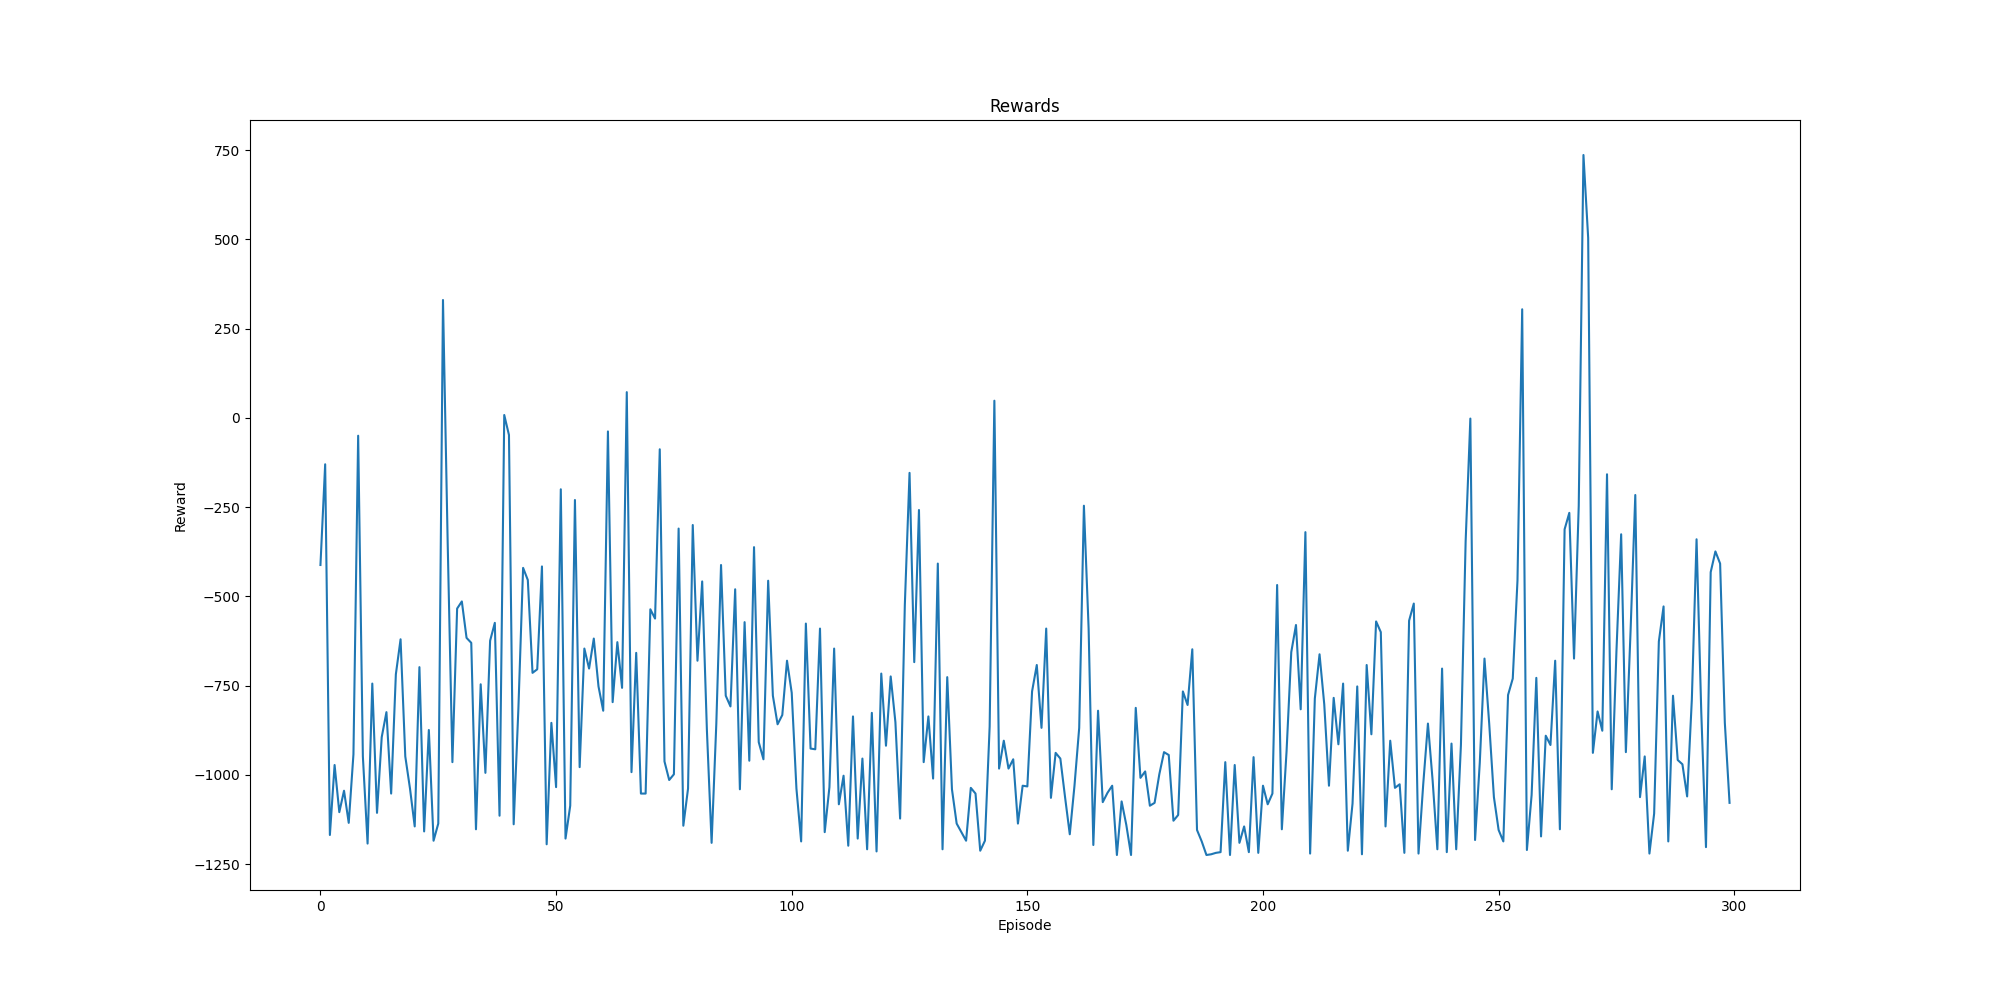
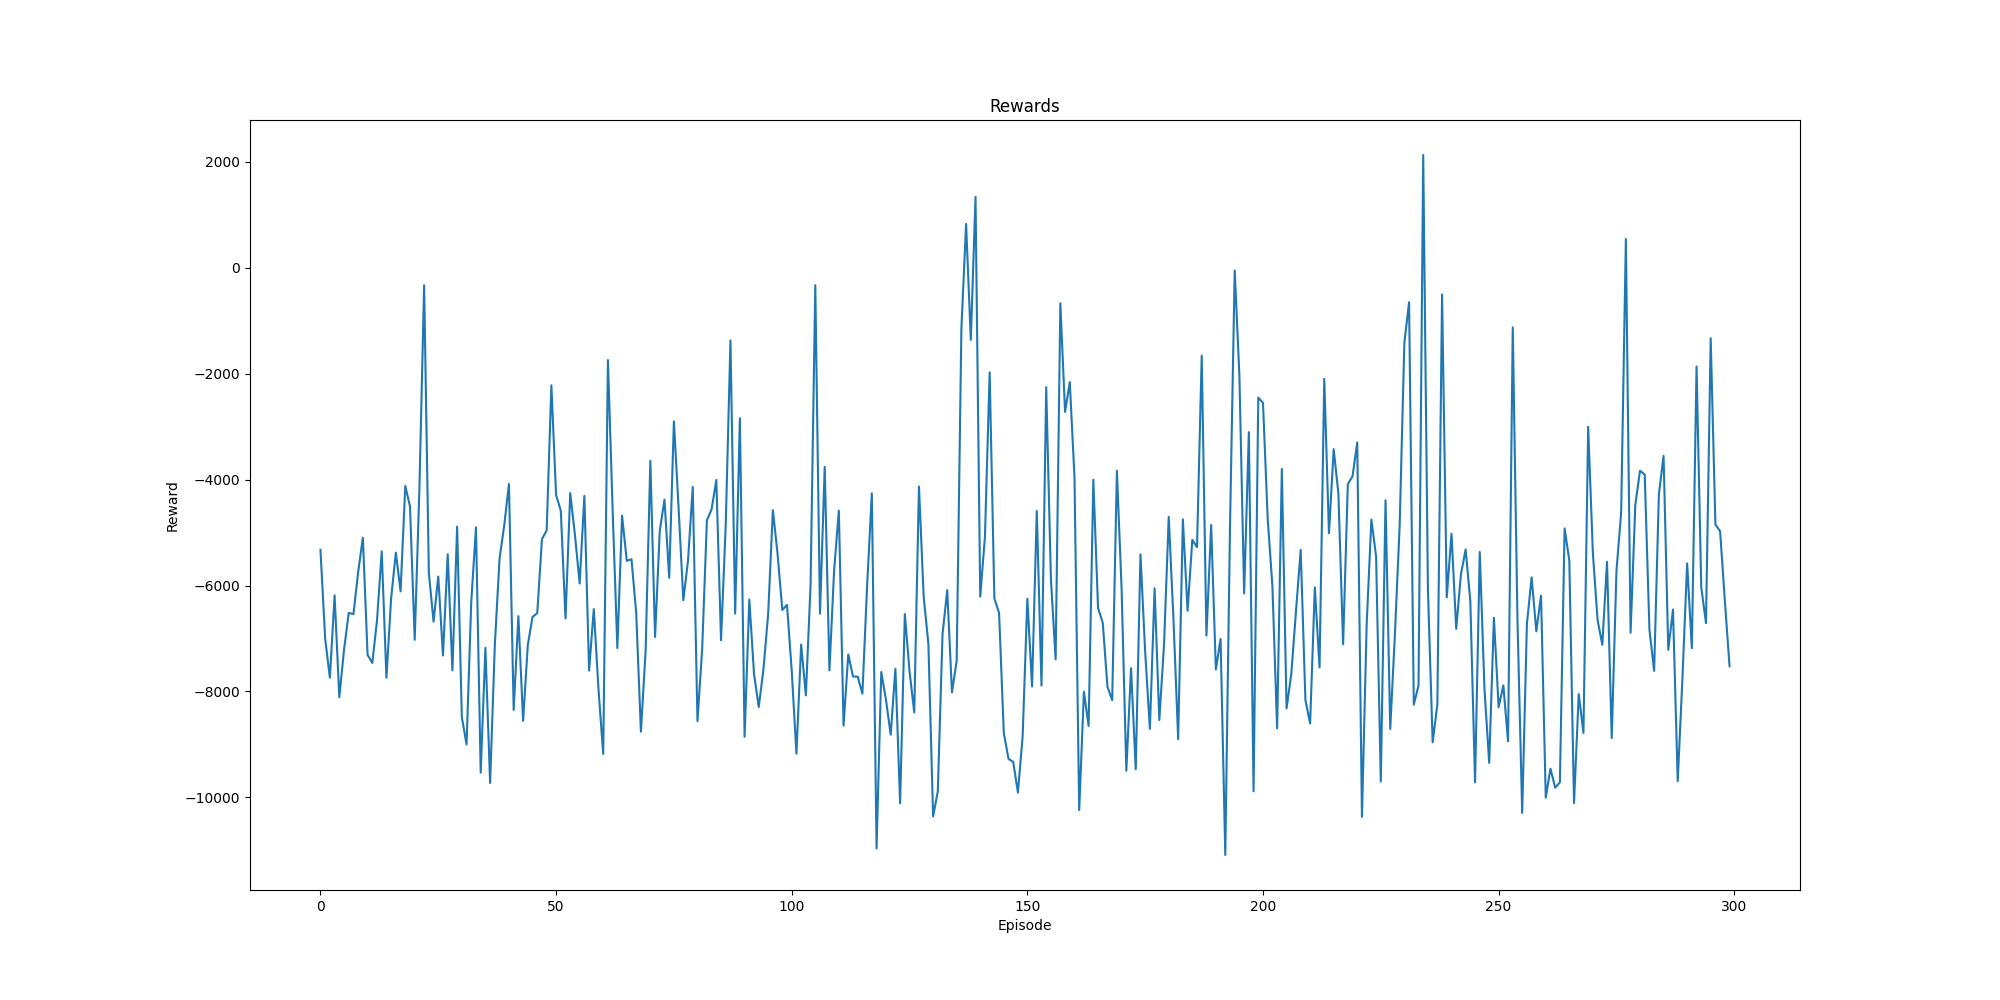
1. Fix random action selection in DQNAgent 2. Add option to disable target model update in replay 3. Update ContinuousCarRadarEnv class with new reward multiplier and circular path parameters

diff --git a/Term_Project/Part-2/DQN/model.py b/Term_Project/Part-2/DQN/model.py
@@ -89,7 +89,7 @@ class DQNAgent():
         
     def act(self, state):
         if np.random.rand() <= self.epsilon:
-            return np.random.choice(self.num_actions)
+            return np.random.randint(self.num_actions)
         else:
             with torch.no_grad():
                 state = torch.from_numpy(state).float()
@@ -99,7 +99,7 @@ class DQNAgent():
     def remember(self, state, action, reward, next_state, done):
         self.experience_replay.add(state, action, reward, next_state, done)
     
-    def replay(self):
+    def replay(self, should_update_target_model=True):
         if self.experience_replay.current_size < self.batch_size:
             return
         
@@ -107,31 +107,32 @@ class DQNAgent():
         
         states = torch.from_numpy(states).float()
         actions = torch.from_numpy(actions).long()
-        rewards = torch.from_numpy(rewards).float()
+        rewards = torch.from_numpy(rewards).int()
         next_states = torch.from_numpy(next_states).float()
-        dones = torch.from_numpy(dones).float()
+        dones = torch.from_numpy(dones).bool()
 
         q_values = self.model(states)
         next_q_values = self.target_model(next_states)
         q_values = q_values.gather(1, actions.unsqueeze(1)).squeeze(1)
         next_q_values = next_q_values.max(1)[0]
-        expected_q_values = rewards + (1 - dones) * self.gamma * next_q_values
+        expected_q_values = rewards + (~dones) * self.gamma * next_q_values
 
         loss = self.loss_fn(q_values, expected_q_values)
         self.optimizer.zero_grad()
         loss.backward()
         self.optimizer.step()
 
-        self.update_target_model()
+        if should_update_target_model:
+            self.update_target_model()
 
     def update_target_model(self):
-        # for target_param, param in zip(self.target_model.parameters(), self.model.parameters()):
-        #     target_param.data.copy_(self.tau * param.data + (1 - self.tau) * target_param.data)
-        self.target_model.load_state_dict(self.model.state_dict())
+        for target_param, param in zip(self.target_model.parameters(), self.model.parameters()):
+            target_param.data.copy_(self.tau * param.data + (1 - self.tau) * target_param.data)
+        # self.target_model.load_state_dict(self.model.state_dict())
 
     
 
-def train_dqn_agent(env: ContinuousCarRadarEnv, agent: DQNAgent, num_episodes=1000, max_steps=1000, start_learning = 200, learning_freq = 4, checkpoint_dir='checkpoints', checkpoint_name='checkpoint_'):
+def train_dqn_agent(env: ContinuousCarRadarEnv, agent: DQNAgent, num_episodes=1000, max_steps=1000, start_learning = 200, learning_freq = 4, updation_freq = 100, checkpoint_dir='checkpoints', checkpoint_name='checkpoint_'):
     start_time = time.time()
     rewards = []
     epsilons = []
@@ -150,7 +151,10 @@ def train_dqn_agent(env: ContinuousCarRadarEnv, agent: DQNAgent, num_episodes=10
             if done:
                 break
             if total_steps > start_learning and total_steps % learning_freq == 0:
-                agent.replay()
+                if total_steps % updation_freq == 0:
+                    agent.replay(True)
+                else:
+                    agent.replay(False)
         rewards.append(episode_reward)
         epsilons.append(agent.epsilon)
         if agent.epsilon > agent.epsilon_min:
@@ -163,51 +167,59 @@ def train_dqn_agent(env: ContinuousCarRadarEnv, agent: DQNAgent, num_episodes=10
     # agent.model.save(checkpoint_dir, checkpoint_name)
     return rewards, epsilons
 
-def run_model(env: ContinuousCarRadarEnv, agent: DQNAgent, checkpoint_dir='checkpoints', checkpoint_name='checkpoint.pth'):
+def run_model(env: ContinuousCarRadarEnv, agent: DQNAgent, max_steps, checkpoint_dir='checkpoints', checkpoint_name='checkpoint.pth'):
     agent.model.load(checkpoint_dir, checkpoint_name)
     state = env.reset()
     done = False
-    while not done:
+    steps = 0
+    while not done and steps < max_steps:
+        steps += 1
         env.render()
         action = agent.act(state)
         state, reward, done = env.step(action)
         # time.sleep(0.1)
+    if done:
+        print(f'Car reached destination in {steps} steps')
+    else:
+        print(f'Car could not reach destination')
     env.close()
 
 if __name__ == '__main__':
     # Set random seed
-    np.random.seed(7375)
+    np.random.seed(53467)
     # Initialize environment
-    env = ContinuousCarRadarEnv(reward_inside_path=1, reward_outside_path=-1, car_speed=1.5)
+    env = ContinuousCarRadarEnv(reward_inside_path=1, reward_outside_path=-3, car_speed=1.3, outer_ring_radius=350, inner_ring_radius= 150)
     state_dim = env.observation.shape[0]
     num_actions = env.num_actions
     
     # Initialize DQN agent
-    agent = DQNAgent(state_dim, num_actions, hidden_size=64, gamma=0.99, epsilon=1.0, epsilon_min=0.01, epsilon_decay=0.99, learning_rate=0.001, tau=0.01, batch_size=128, max_memory_size=15000)
-    
-    run_model(env, agent, checkpoint_dir='checkpoints', checkpoint_name='checkpoint_300.pth')
+    agent = DQNAgent(state_dim, num_actions, hidden_size=64, gamma=0.99, epsilon=0.003, epsilon_min=0.0001, epsilon_decay=0.96, learning_rate=1e-4, tau=5e-4, batch_size=128, max_memory_size=40000)
+    # agent.model.load('checkpoints', 'best_checkpoint_3_200.pth')
+    # agent.model.load('checkpoints', 'excel_checkpoint_1_200_50.pth')
+
+    run_model(env, agent, 4000, checkpoint_dir='checkpoints', checkpoint_name='checkpoint_1_200_50_50.pth')
     exit()
 
     # Train DQN agent
-    rewards, epsilons = train_dqn_agent(env, agent, num_episodes=300, max_steps=1300, start_learning = 300, learning_freq = 4, checkpoint_dir='checkpoints', checkpoint_name='checkpoint_')
+    rewards, epsilons = train_dqn_agent(env, agent, num_episodes=50, max_steps=5000, start_learning = 200, learning_freq = 3, updation_freq=30, checkpoint_dir='checkpoints', checkpoint_name='checkpoint_1_200_50_')
     
     # Plot rewards and epsilons
-    import matplotlib.pyplot as plt
-    plt.figure(figsize=(20, 10))
-    plt.plot(rewards)
-    plt.title('Rewards')
-    plt.xlabel('Episode')
-    plt.ylabel('Reward')
-    plt.savefig('rewards.png')
-    plt.close()
+    # import matplotlib.pyplot as plt
+    # plt.figure(figsize=(20, 10))
+    # plt.plot(rewards)
+    # plt.title('Rewards')
+    # plt.xlabel('Episode')
+    # plt.ylabel('Reward')
+    # plt.savefig('rewards.png')
+    # plt.close()
     
-    plt.figure(figsize=(20, 10))
-    plt.plot(epsilons)
-    plt.title('Epsilons')
-    plt.xlabel('Episode')
-    plt.ylabel('Epsilon')
-    plt.savefig('epsilons.png')
-    plt.close()
+    # plt.figure(figsize=(20, 10))
+    # plt.plot(epsilons)
+    # plt.title('Epsilons')
+    # plt.xlabel('Episode')
+    # plt.ylabel('Epsilon')
+    # plt.savefig('epsilons.png')
+    # plt.close()
     
     # Test DQN agent
     # agent.model.load('checkpoints', 'checkpoint.pth')
@@ -219,4 +231,4 @@ if __name__ == '__main__':
     #     state, reward, done = env.step(action)
     #     # time.sleep(0.1)
     # env.close()
-    run_model(env, agent, checkpoint_dir='checkpoints', checkpoint_name='checkpoint_300.pth')
+    # run_model(env, agent, 6000, checkpoint_dir='checkpoints', checkpoint_name='checkpoint_200.pth')

diff --git a/Term_Project/Part-2/DQN/contcar_env.py b/Term_Project/Part-2/DQN/contcar_env.py
@@ -3,10 +3,10 @@ import pygame
 import math
 import numpy as np
 
-REWARD_MULTIPLIER = 200
+REWARD_MULTIPLIER = 1000
 
 class ContinuousCarRadarEnv:
-    def __init__(self, window_size=(700, 900), radius=300, path_thickness=100, car_length=30, car_width=20, car_speed=1., num_rays=5, ray_lengths=[60, 60, 60, 60, 60], ray_angles=[math.pi / 4, math.pi / 8, 0, -math.pi / 8, -math.pi / 4], reward_inside_path=1, reward_outside_path=-1):
+    def __init__(self, window_size=(900, 900), radius=300, path_thickness=100, outer_ring_radius = 400, inner_ring_radius=150, car_length=30, car_width=20, car_speed=1., num_rays=5, ray_lengths=[60, 60, 60, 60, 60], ray_angles=[math.pi / 4, math.pi / 8, 0, -math.pi / 8, -math.pi / 4], reward_inside_path=1, reward_outside_path=-1):
         self.window_size = window_size
         self.num_actions = 3  # Steer left, go straight, steer right
         # Pygame initialization
@@ -18,10 +18,13 @@ class ContinuousCarRadarEnv:
         self.black = (0, 0, 0)
         self.white = (255, 255, 255)
         self.brown = (139, 69, 19)
+        self.red = (255, 0, 0)
 
         # Circular path parameters
         self.center = (self.window_size[0] // 2, self.window_size[1] // 2)
         self.radius = radius
+        self.outer_ring_radius = outer_ring_radius
+        self.inner_ring_radius = inner_ring_radius
         self.path_thickness = path_thickness
         self.inner_radius = self.radius - self.path_thickness
 
@@ -67,15 +70,37 @@ class ContinuousCarRadarEnv:
             self.car_angle -= 0.1
 
         # Calculate new car position
-        self.car_x += self.car_speed * math.cos(self.car_angle)
-        self.car_y -= self.car_speed * math.sin(self.car_angle)
+        update_x = self.car_speed * math.cos(self.car_angle)
+        update_y = -(self.car_speed * math.sin(self.car_angle))
+        self.car_x += update_x
+        self.car_y += update_y
 
         # # Wrap car position around the circular path
         # self.car_x %= self.window_size[0]
         # self.car_y %= self.window_size[1]
-        # If car goes out of bounds, keep it at the boundary
-        self.car_x = min(max(0, self.car_x), self.window_size[0])
-        self.car_y = min(max(0, self.car_y), self.window_size[1])
+        # If car touches the outer ring, reflect it back
+        distance_to_center = math.sqrt((self.car_x - self.center[0]) ** 2 + (self.car_y - self.center[1]) ** 2)
+        if distance_to_center > self.outer_ring_radius:
+            self.car_x -= update_x
+            self.car_y -= update_y
+            self.car_angle += math.pi
+        elif distance_to_center < self.inner_ring_radius:
+            self.car_x -= update_x
+            self.car_y -= update_y
+            self.car_angle += math.pi
+        
+        # Accomodate car_angle in [0, 2*pi]
+        if self.car_angle > 2 * math.pi:
+            self.car_angle -= 2 * math.pi
+        elif self.car_angle < 0:
+            self.car_angle += 2 * math.pi
+
+        # Check if the car is inside the circular path
+        # distance_to_center = math.sqrt((self.car_x - self.center[0]) ** 2 + (self.car_y - self.center[1]) ** 2)
+        if self.inner_radius < distance_to_center < self.radius:
+            reward = self.reward_inside_path
+        else:
+            reward = self.reward_outside_path
 
         # Cast radar rays and update ray_values
         # Inefficient way
@@ -108,12 +133,6 @@ class ContinuousCarRadarEnv:
             reward = self.reward_outside_path
         '''
         
-        # Check if the car is inside the circular path
-        distance_to_center = math.sqrt((self.car_x - self.center[0]) ** 2 + (self.car_y - self.center[1]) ** 2)
-        if self.inner_radius < distance_to_center < self.radius:
-            reward = self.reward_inside_path
-        else:
-            reward = self.reward_outside_path
 
         # Check if the car has reached the goal
         done = False
@@ -122,6 +141,7 @@ class ContinuousCarRadarEnv:
             if (self.quarter_lap_done & self.half_lap_done & self.three_quarter_lap_done) == True and self.car_y < self.center[1] and self.car_x < self.center[0] + self.radius and self.car_x > self.center[0] +  self.inner_radius:
                 done = True
                 reward = REWARD_MULTIPLIER * 5
+                print("Completed successfully")
 
             # Check if the car has crossed three quarters of the lap
             if self.quarter_lap_done & self.half_lap_done & (self.three_quarter_lap_done == False) and self.car_x > self.center[0] and self.car_y < self.center[1] + self.radius and self.car_y > self.center[1] +  self.inner_radius:
@@ -150,8 +170,10 @@ class ContinuousCarRadarEnv:
         self.car_angle = math.pi / 2
         # self.ray_values = [0] * self.num_rays
         self.score = 0
-        self.half_lap_done = False
         self.done = False
+        self.quarter_lap_done = False
+        self.half_lap_done = False
+        self.three_quarter_lap_done = False
 
         # Reset observation
         self.observation[:-3] = 0
@@ -171,6 +193,12 @@ class ContinuousCarRadarEnv:
 
         # Draw circular path
         pygame.draw.circle(self.screen, self.brown, self.center, self.radius, self.path_thickness)
+
+        # Draw Outer Ring
+        pygame.draw.circle(self.screen, self.black, self.center, self.outer_ring_radius, 10)
+
+        # Draw Inner Ring
+        pygame.draw.circle(self.screen, self.black, self.center, self.inner_ring_radius, 10)
 
         # Draw car as an arrow
         car_points = [
